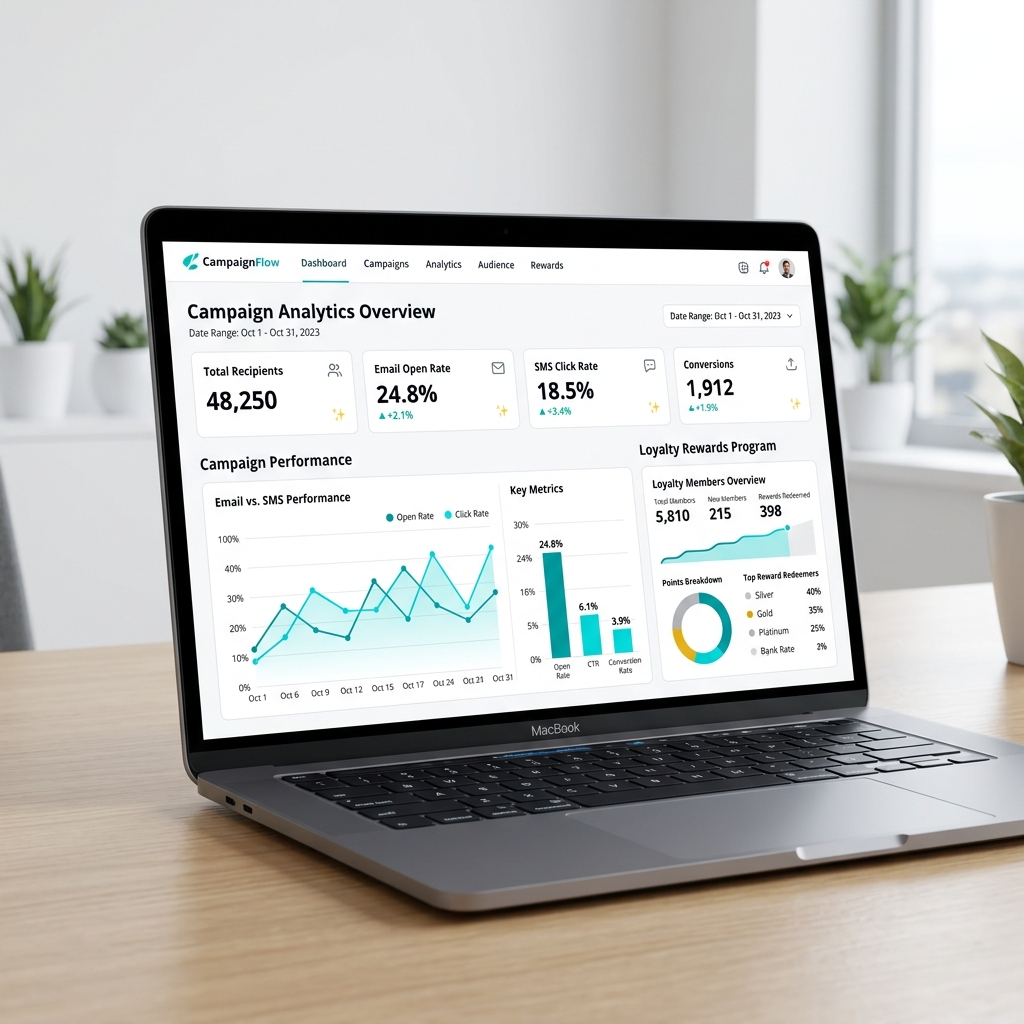
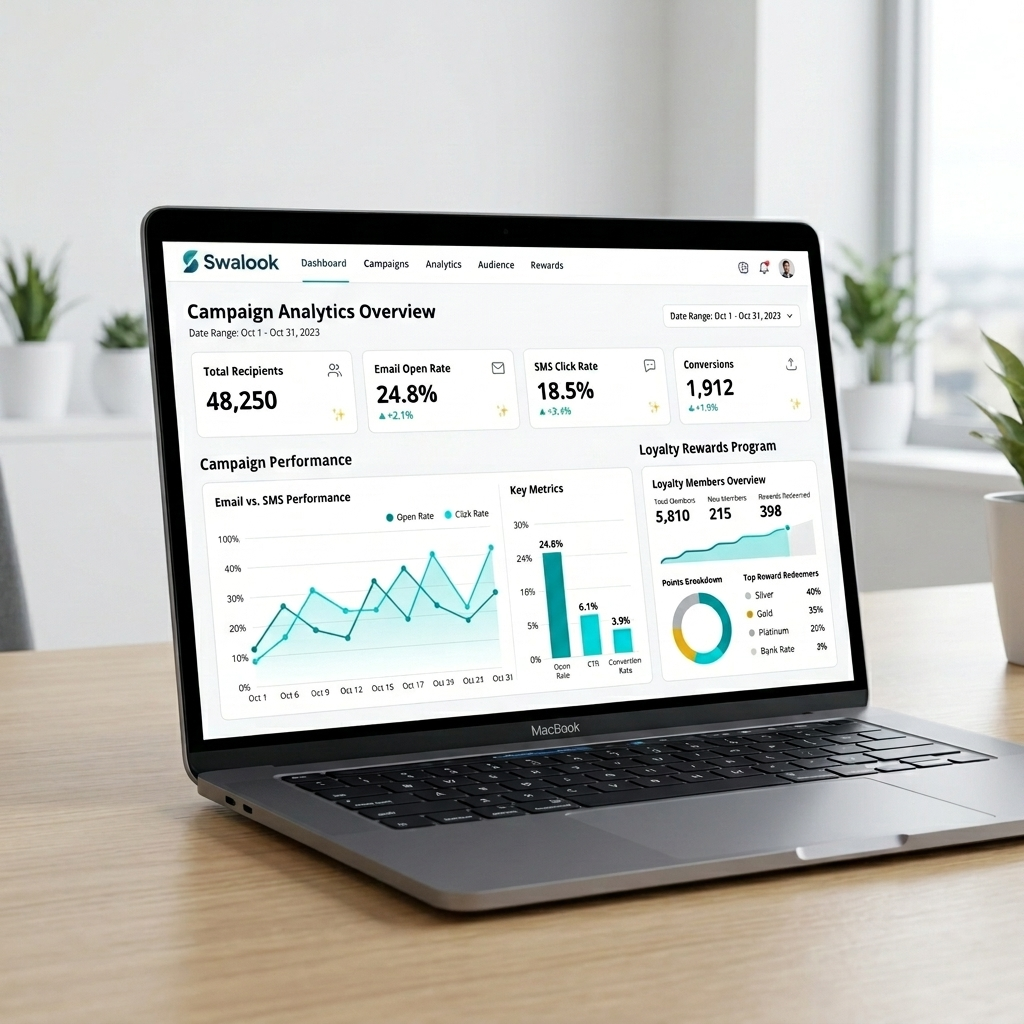
Set priority on marketing image, update assets
Give the marketing feature image priority to improve perceived load (add priority prop when f.image === '/images/feature-marketing.png'). Remove obsolete docs (AGENTS.md, CLAUDE.md) and update two feature image assets (public/images/feature-marketing.png, public/images/feature-profiles.png).

Changed region(s): [[0.1562, 0.25, 0.2812, 0.2812], [0.5312, 0.375, 0.5625, 0.4062]]

diff --git a/app/page.js b/app/page.js
@@ -315,7 +315,7 @@ export default function HomePage() {
           <div key={f.title} className={`${styles.featureRow} ${i % 2 !== 0 ? styles.featureRowReverse : ''}`}>
             <AnimatedSection direction={i % 2 === 0 ? 'left' : 'right'}>
               <div className={styles.featureImageBox}>
-                <Image src={f.image} alt={f.title} width={560} height={350} style={{ width: '100%', height: '100%', objectFit: 'cover', borderRadius: 'var(--radius-xl)' }} />
+                <Image src={f.image} alt={f.title} width={560} height={350} style={{ width: '100%', height: '100%', objectFit: 'cover', borderRadius: 'var(--radius-xl)' }} priority={f.image === '/images/feature-marketing.png'} />
               </div>
             </AnimatedSection>
             <AnimatedSection direction={i % 2 === 0 ? 'right' : 'left'}>